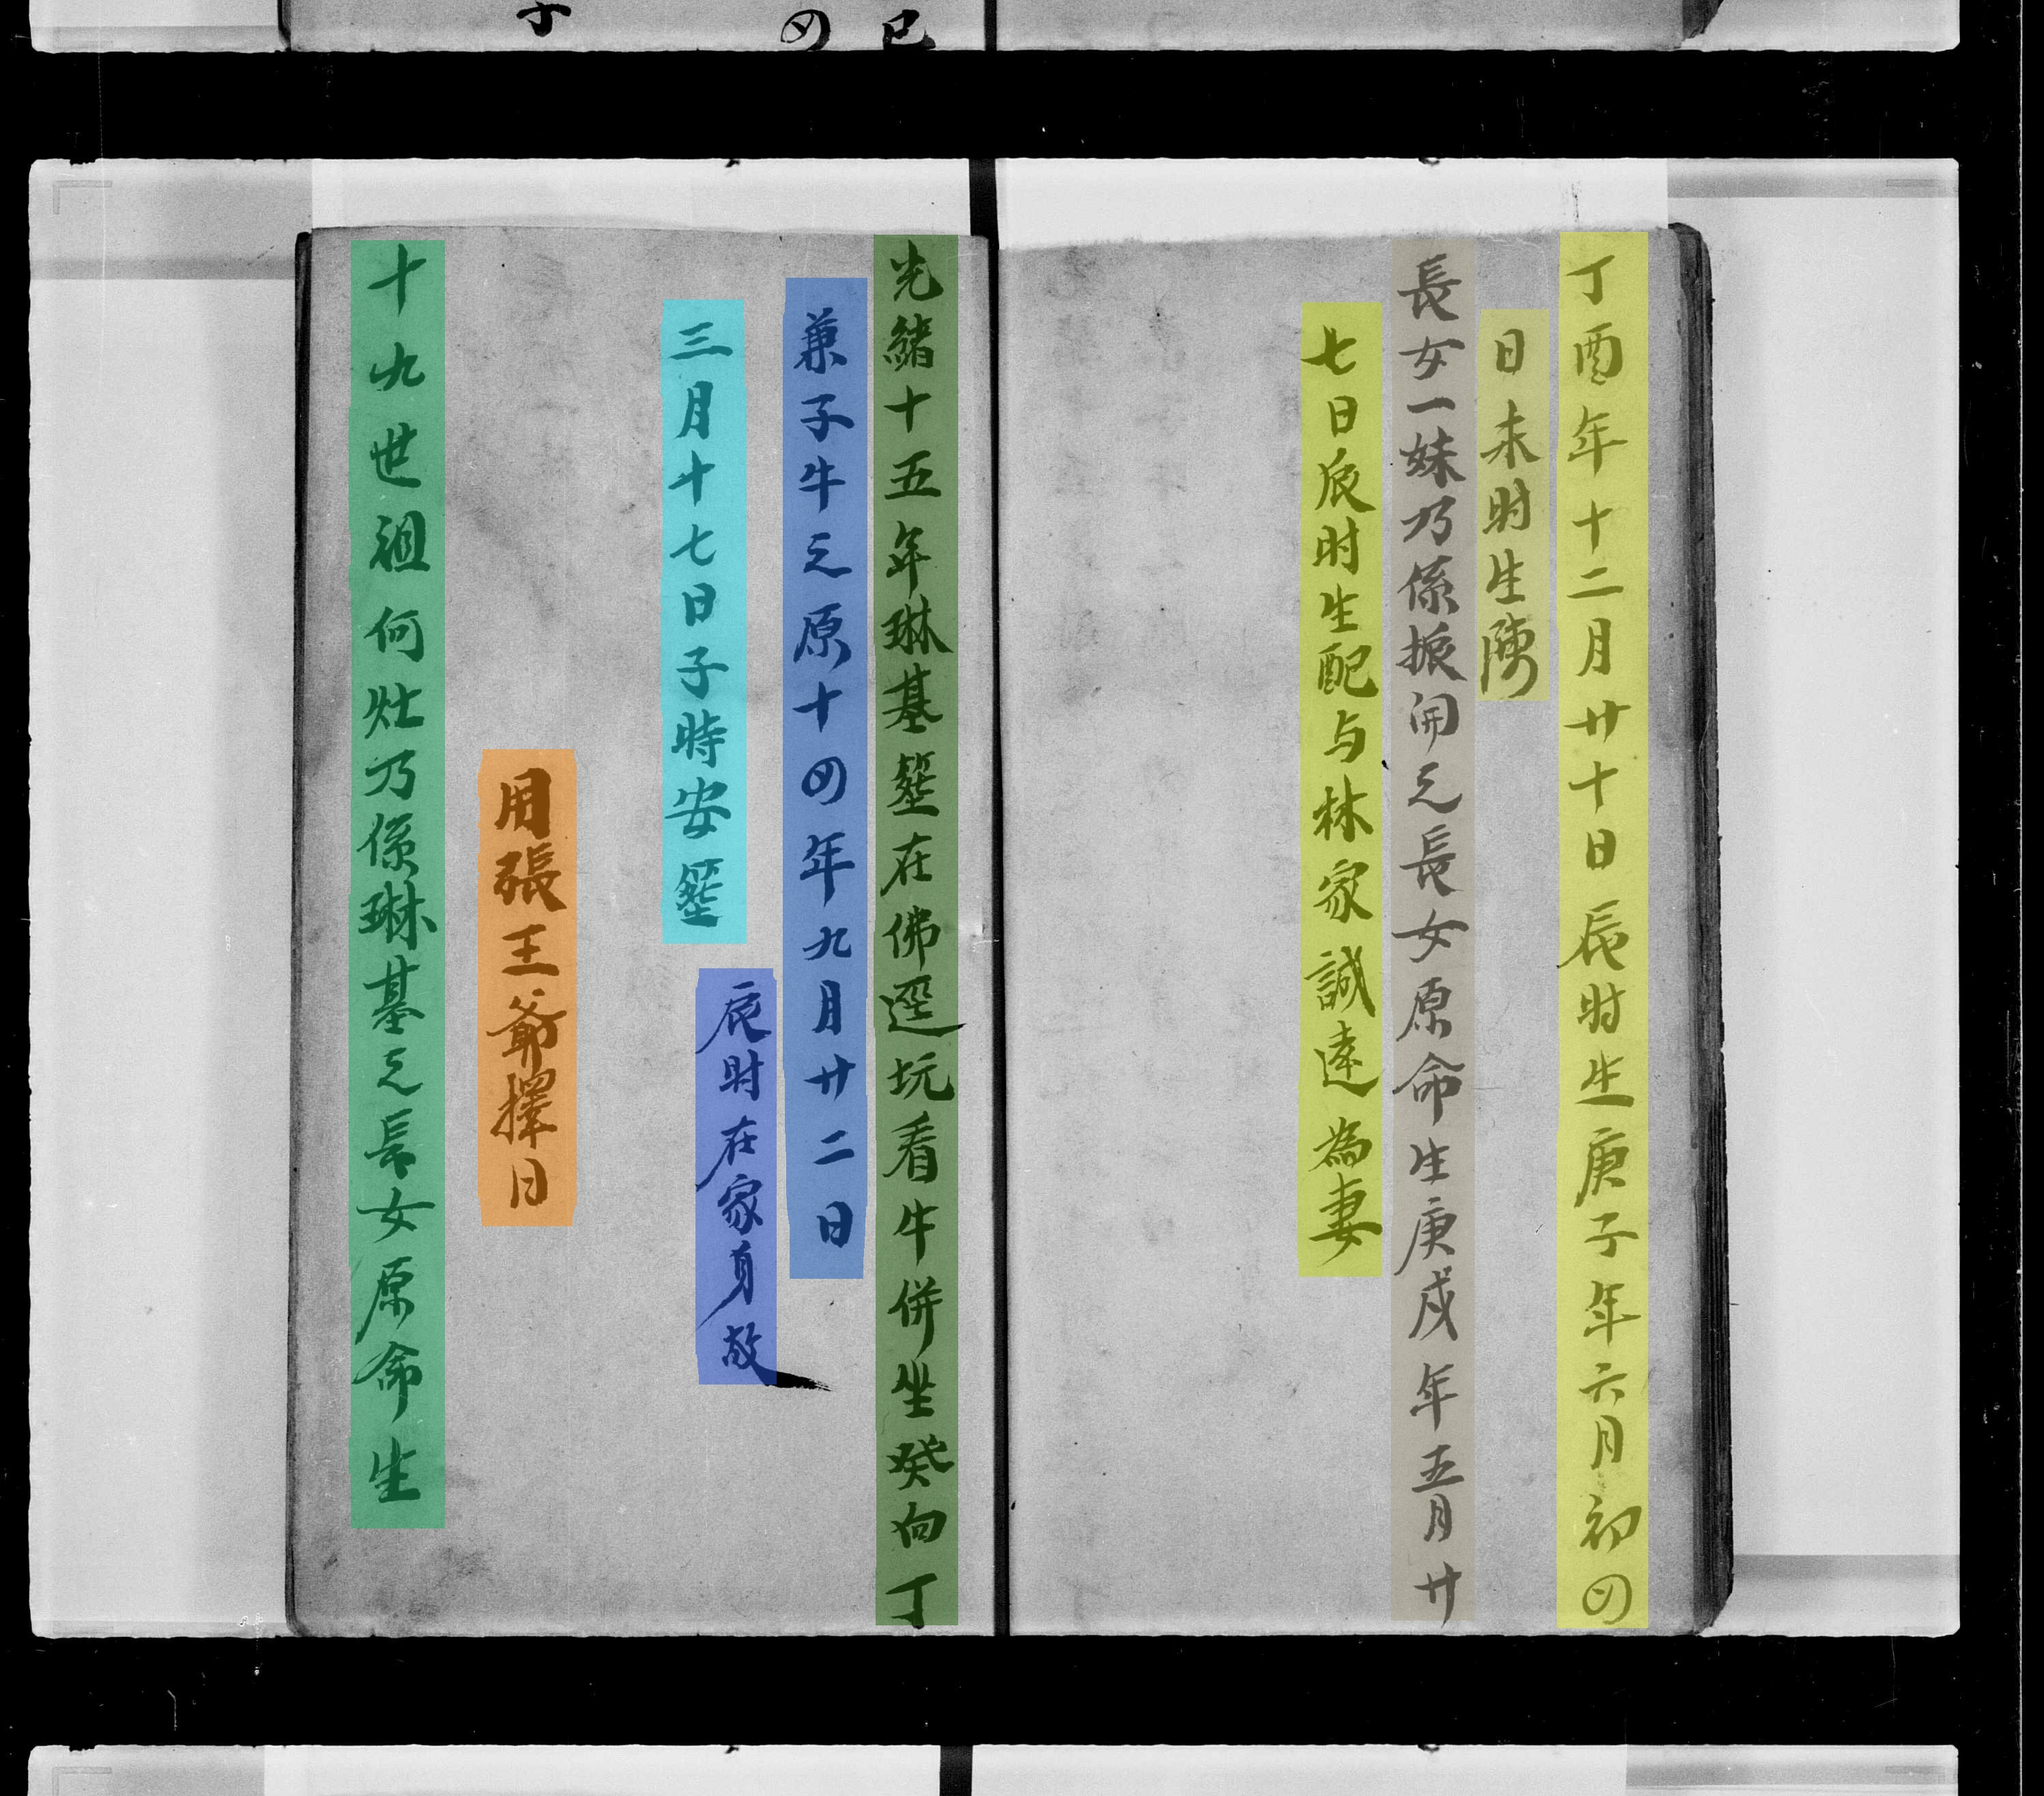
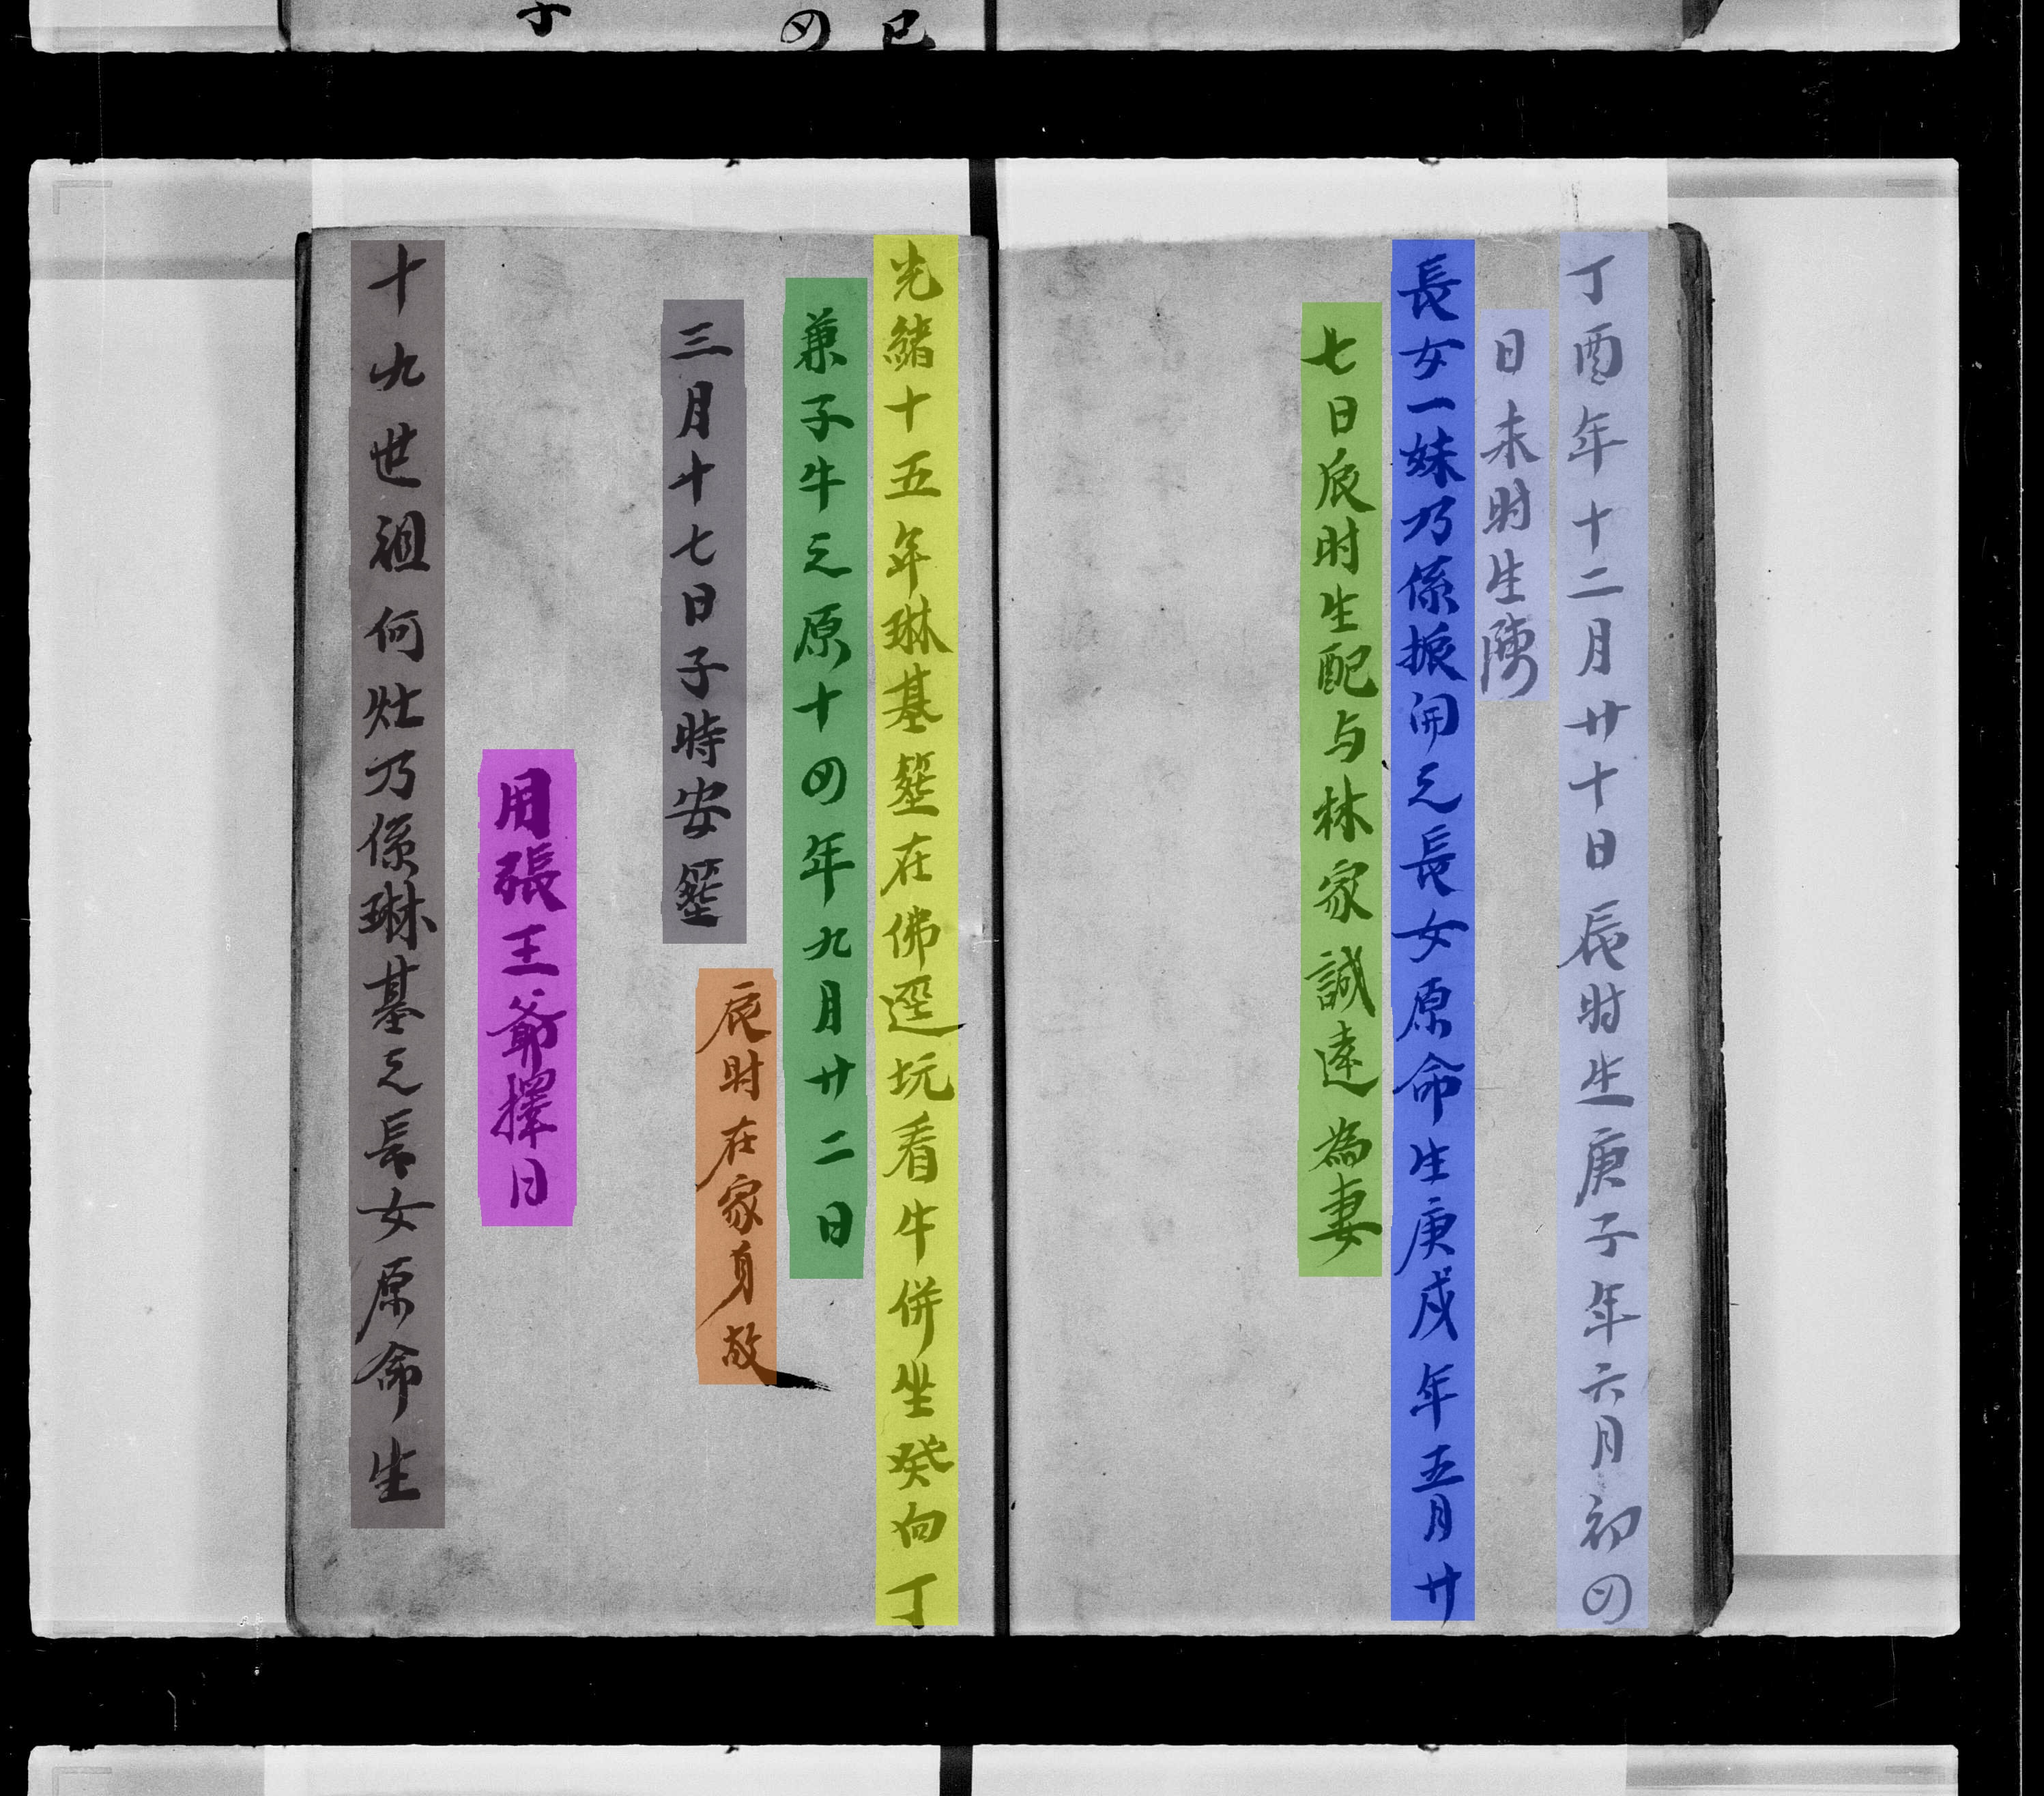
remove cache

Changed region(s): [[0.621, 0.1246, 0.8073, 0.9347], [0.3105, 0.1246, 0.4658, 0.9035], [0.1553, 0.1246, 0.2795, 0.8723]]

diff --git a/tools/single_test.py b/tools/single_test.py
@@ -19,7 +19,7 @@ post_proce.rm_inter(result)
 
 
 
-# show_result(img, result)
+show_result(img, result)
 
 # test a list of images
 # imgs = ['test1.jpg', 'test2.jpg']
